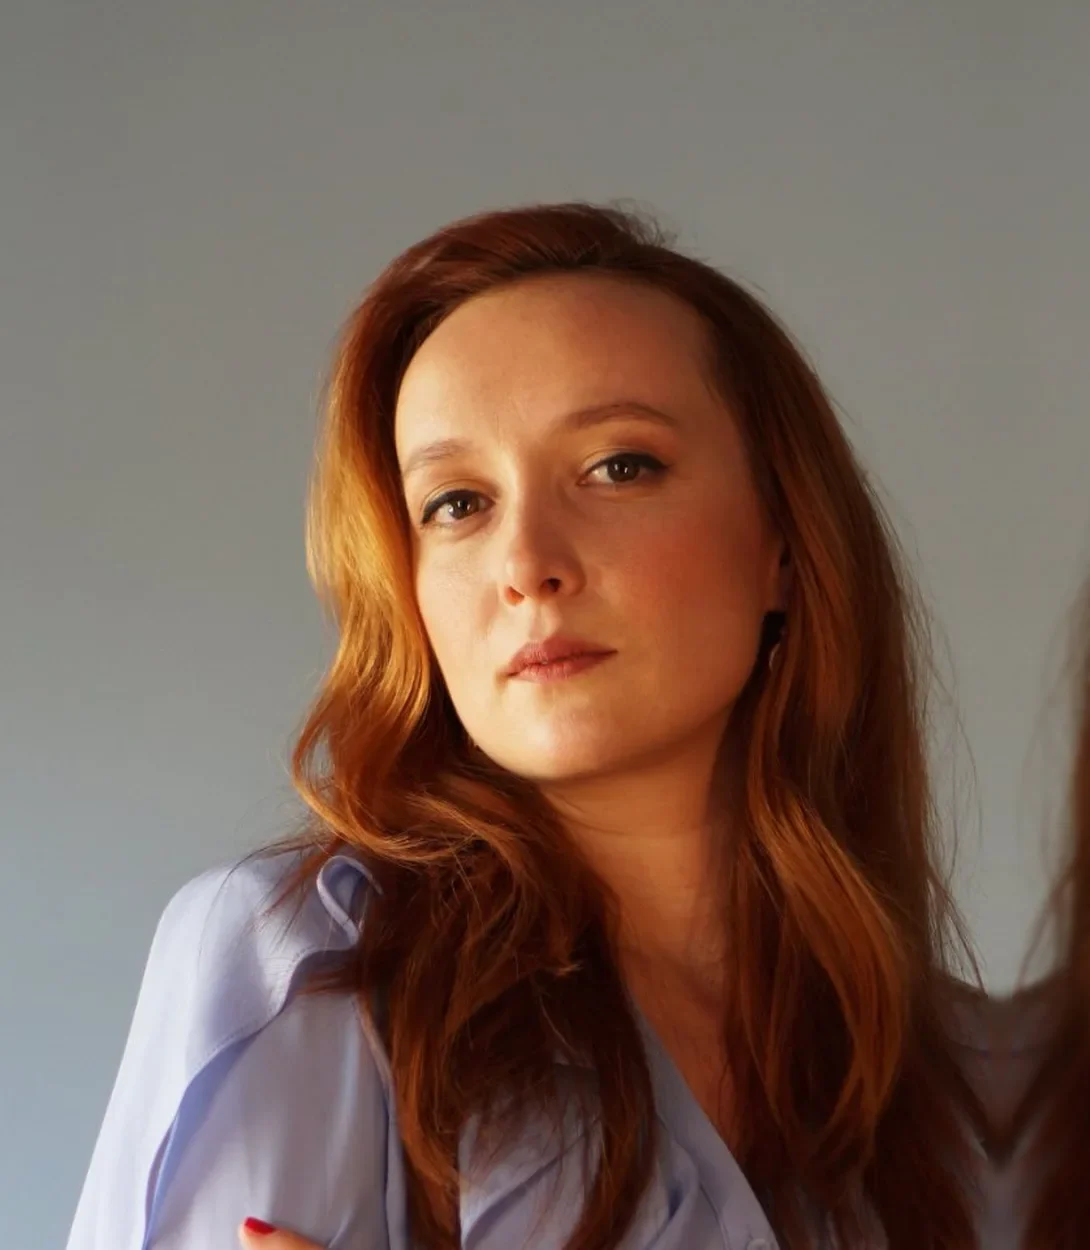
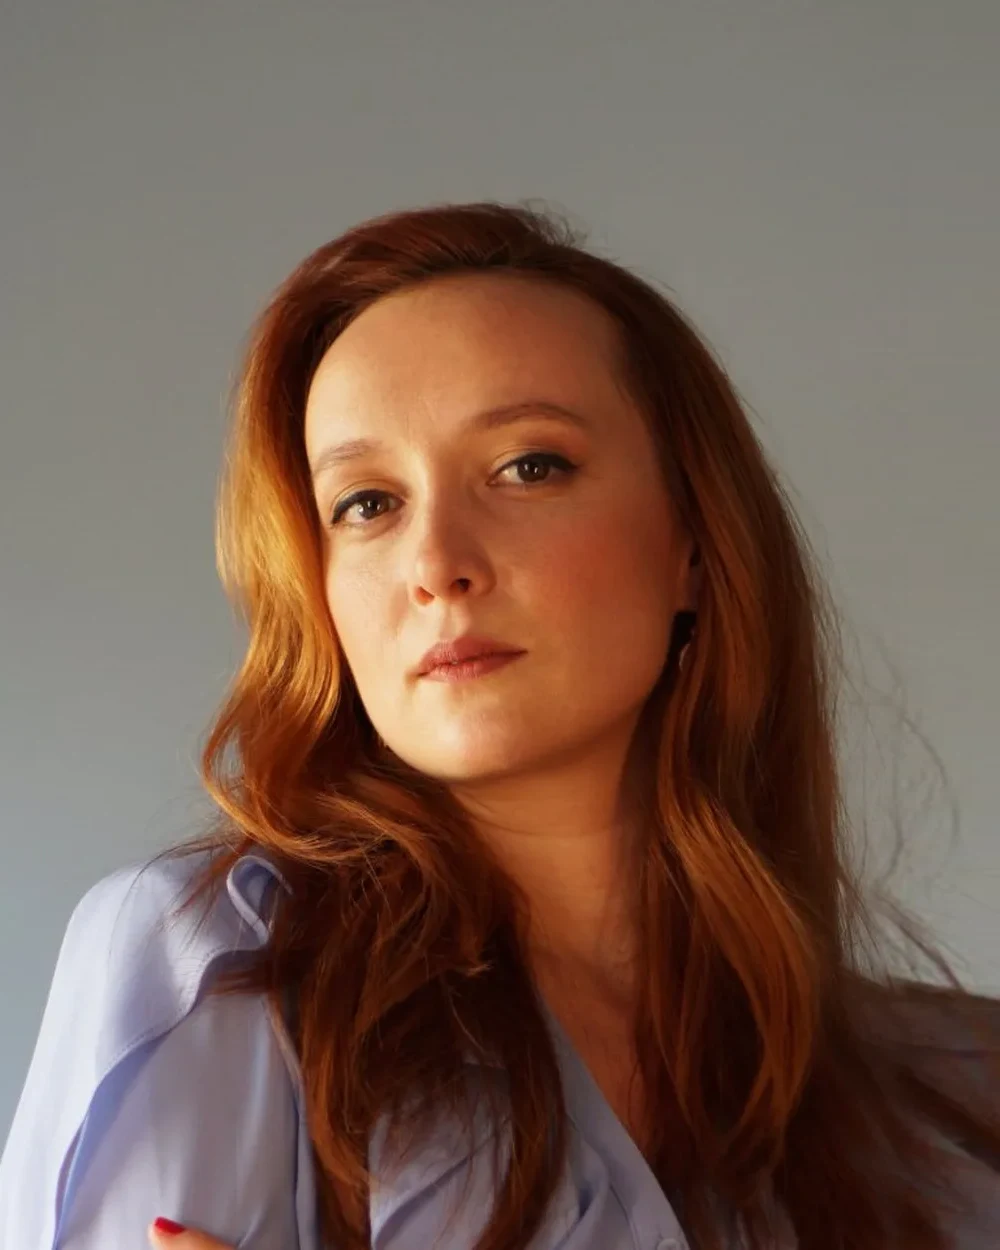
Romanna team photo: replace mirrored edge with natural extension
Claude-Session: https://claude.ai/code/session_018Tw57dfsCNwAJnViSAJuvu

diff --git a/src/content/site-v14-el.ts b/src/content/site-v14-el.ts
@@ -450,7 +450,7 @@ export const el: Copy = {
     founders: [
       { initials: "ΔΧ", name: "Δημήτρης Χρυσοχόου", role: "Co-founder · AI & Automation Lead", photo: "/team/dimitris-chrysochoou.webp", linkedin: "https://www.linkedin.com/in/dimitris-chrysochoou/" },
       { initials: "ΜΜ", name: "Μιχαήλ Μπούμπας", role: "Co-founder · Marketing & Growth Lead", photo: "/team/michael-boumpas.webp", linkedin: "https://www.linkedin.com/in/michael-boumpas/" },
-      { initials: "RL", name: "Romanna Lobach", role: "Creative Director", photo: "/team/romanna-lobach.webp", photoPosition: "100% 50%", linkedin: "https://www.linkedin.com/in/romanna-lobach-56627393/" },
+      { initials: "RL", name: "Romanna Lobach", role: "Creative Director", photo: "/team/romanna-lobach.webp", linkedin: "https://www.linkedin.com/in/romanna-lobach-56627393/" },
     ],
     teamLabel: "Η ομάδα",
     linkedinLabel: "LinkedIn",

diff --git a/src/content/site-v14.ts b/src/content/site-v14.ts
@@ -530,7 +530,7 @@ export const v14AboutPage = {
   founders: [
     { initials: "DC", name: "Dimitris Chrysochoou", role: "Co-founder · AI & Automation Lead", photo: "/team/dimitris-chrysochoou.webp", linkedin: "https://www.linkedin.com/in/dimitris-chrysochoou/" },
     { initials: "MB", name: "Michael Boumpas", role: "Co-founder · Marketing & Growth Lead", photo: "/team/michael-boumpas.webp", linkedin: "https://www.linkedin.com/in/michael-boumpas/" },
-    { initials: "RL", name: "Romanna Lobach", role: "Creative Director", photo: "/team/romanna-lobach.webp", photoPosition: "100% 50%", linkedin: "https://www.linkedin.com/in/romanna-lobach-56627393/" },
+    { initials: "RL", name: "Romanna Lobach", role: "Creative Director", photo: "/team/romanna-lobach.webp", linkedin: "https://www.linkedin.com/in/romanna-lobach-56627393/" },
   ],
   teamLabel: "The team",
   linkedinLabel: "LinkedIn",
